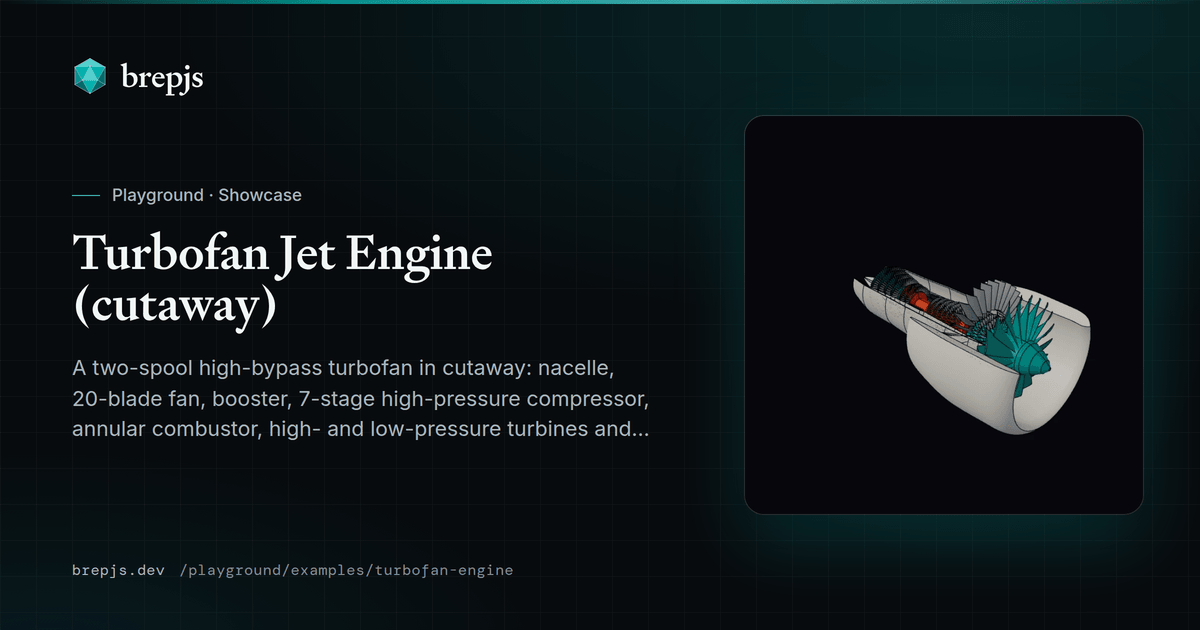
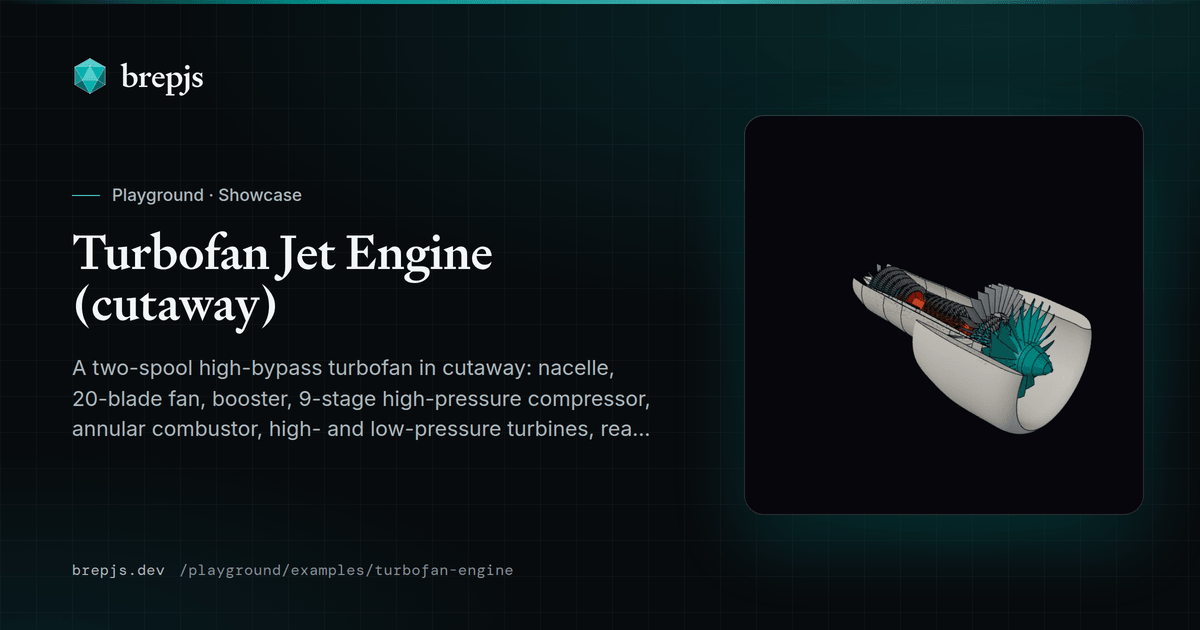
fix(playground): correct the turbofan blade rows and add a rear frame
Turbine rows keep the rotor and stator stagger of the compressor rows and reverse only the camber, as on a real shared shaft. The default high-pressure compressor has nine stages, and ten struts form a turbine rear frame.

Changed region(s): [[0.7092, 0.4222, 0.925, 0.6937], [0.2467, 0.6032, 0.555, 0.6937], [0.7708, 0.6032, 0.8017, 0.6333]]

diff --git a/apps/playground/src/lib/examples/showcase.ts b/apps/playground/src/lib/examples/showcase.ts
@@ -9,7 +9,7 @@ export const SHOWCASE_EXAMPLES: readonly Example[] = [
     id: 'turbofan-engine',
     label: 'Turbofan Jet Engine (cutaway)',
     description:
-      'A two-spool high-bypass turbofan in cutaway: nacelle, 20-blade fan, booster, 7-stage high-pressure compressor, annular combustor, high- and low-pressure turbines and exhaust plug. More than 1,400 spline-lofted aerofoils, with the casings opened by a boolean cut.',
+      'A two-spool high-bypass turbofan in cutaway: nacelle, 20-blade fan, booster, 9-stage high-pressure compressor, annular combustor, high- and low-pressure turbines, rear frame and exhaust plug. A display model, not an engineered design. More than 1,800 spline-lofted aerofoils, with the casings opened by a boolean cut.',
     code: `import {
   compound,
   cut,
@@ -108,7 +108,7 @@ const bladeRow = (row: Row): Shape[] => {
   return Array.from({ length: row.count }, (_, i) => rotate(blade, (360 * i) / row.count, { axis: [0, 0, 1] }) as Shape);
 };
 
-function turbofan({ fanBlades = 20, fanRadius = 100, hpcStages = 7, lptStages = 4, cutaway = 130 }: TurbofanParams = {}) {
+function turbofan({ fanBlades = 20, fanRadius = 100, hpcStages = 9, lptStages = 4, cutaway = 130 }: TurbofanParams = {}) {
   const grow = fanRadius - 100; // extra fan radius goes straight into the bypass duct
 
   // Core gas path: inner (hub) and outer (casing) radius along the axis.
@@ -148,16 +148,21 @@ function turbofan({ fanBlades = 20, fanRadius = 100, hpcStages = 7, lptStages = 
   const stators: Shape[] = [];
   const lpCore: Shape[] = [];
   const hpSpool: Shape[] = [];
+  // Both spools turn clockwise seen from the front, so every rotor row staggers one way and every
+  // stator row the other. A turbine row keeps that stagger and reverses the camber: a compressor
+  // blade pushes the air with its concave side, a turbine blade is pushed on its concave side.
   const stage = (rotor: Shape[], z: number, pitch: number, chord: number, count: number, turbine: boolean) => {
     const zs = z + pitch / 2;
-    const s = turbine ? -1 : 1;
-    rotor.push(...bladeRow({ z: turbine ? zs : z, chord, count, rRoot: rHub(z) - 1, rTip: rCase(z) - 0.2, stagger: [s * 22, s * 50], camber: turbine ? -0.16 : 0.08, thick: 0.1 }));
-    stators.push(...bladeRow({ z: turbine ? z : zs, chord: chord * 0.9, count: count + 6, rRoot: rHub(zs) + 0.7, rTip: rCase(zs) + 1.2, stagger: [-s * 16, -s * 30], camber: turbine ? 0.16 : -0.08, thick: 0.09 }));
+    rotor.push(...bladeRow({ z: turbine ? zs : z, chord, count, rRoot: rHub(z) - 1, rTip: rCase(z) - 0.2, stagger: turbine ? [28, 48] : [22, 50], camber: turbine ? -0.18 : 0.08, thick: 0.1 }));
+    stators.push(...bladeRow({ z: turbine ? z : zs, chord: chord * 0.9, count: count + 6, rRoot: rHub(zs) + 0.7, rTip: rCase(zs) + 1.2, stagger: turbine ? [-38, -48] : [-16, -30], camber: turbine ? 0.18 : -0.08, thick: 0.09 }));
   };
   for (let i = 0; i < 3; i++) stage(lpCore, 62 + i * 15, 15, 6.5, 38 + 2 * i, false);
   for (let i = 0; i < hpcStages; i++) stage(hpSpool, 132 + i * 12.4, 12.4, 5.2 - 0.18 * i, 34 + 3 * i, false);
   for (let i = 0; i < 2; i++) stage(hpSpool, burnEnd + 2 + i * 13, 13, 5.6, 44 + 6 * i, true);
   for (let i = 0; i < lptStages; i++) stage(lpCore, hptEnd + 9 + i * 16.5, 16.5, 7.2, 50 + 4 * i, true);
+
+  // Turbine rear frame: thick struts that carry the rear bearing and straighten the core flow.
+  stators.push(...bladeRow({ z: lptEnd + 13, chord: 15, count: 10, rRoot: 20, rTip: rCase(lptEnd) - 1.5, stagger: [0, 0], camber: 0, thick: 0.2, taper: 1 }));
 
   // Outlet guide vanes carry the fan case on the core.
   stators.push(...bladeRow({ z: 92, chord: 22, count: 34, rRoot: 54, rTip: 104 + grow, stagger: [-18, -8], camber: -0.07, thick: 0.07, taper: 1 }));
